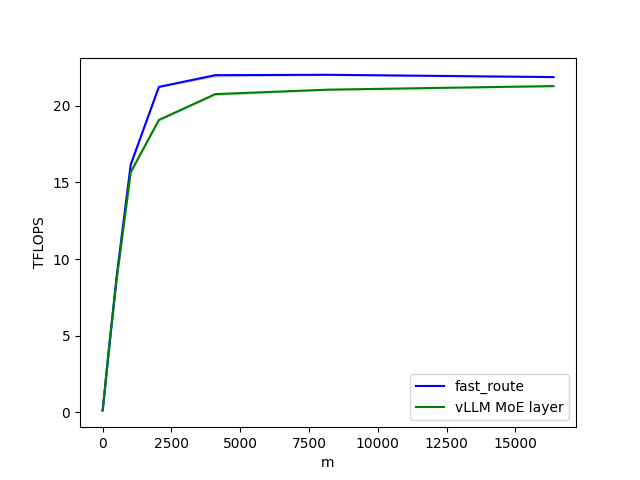
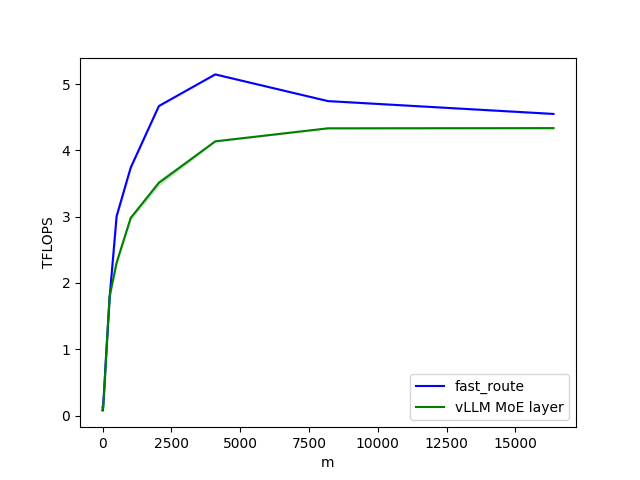
update readme

diff --git a/README.md b/README.md
@@ -10,5 +10,7 @@ pip install -e fast_route
 
 ## result
 
-[<img src="moe_bench.png">]
+MoE layer: (Quadro RTX8000)
+
+<img src="moe_bench.png">
 
